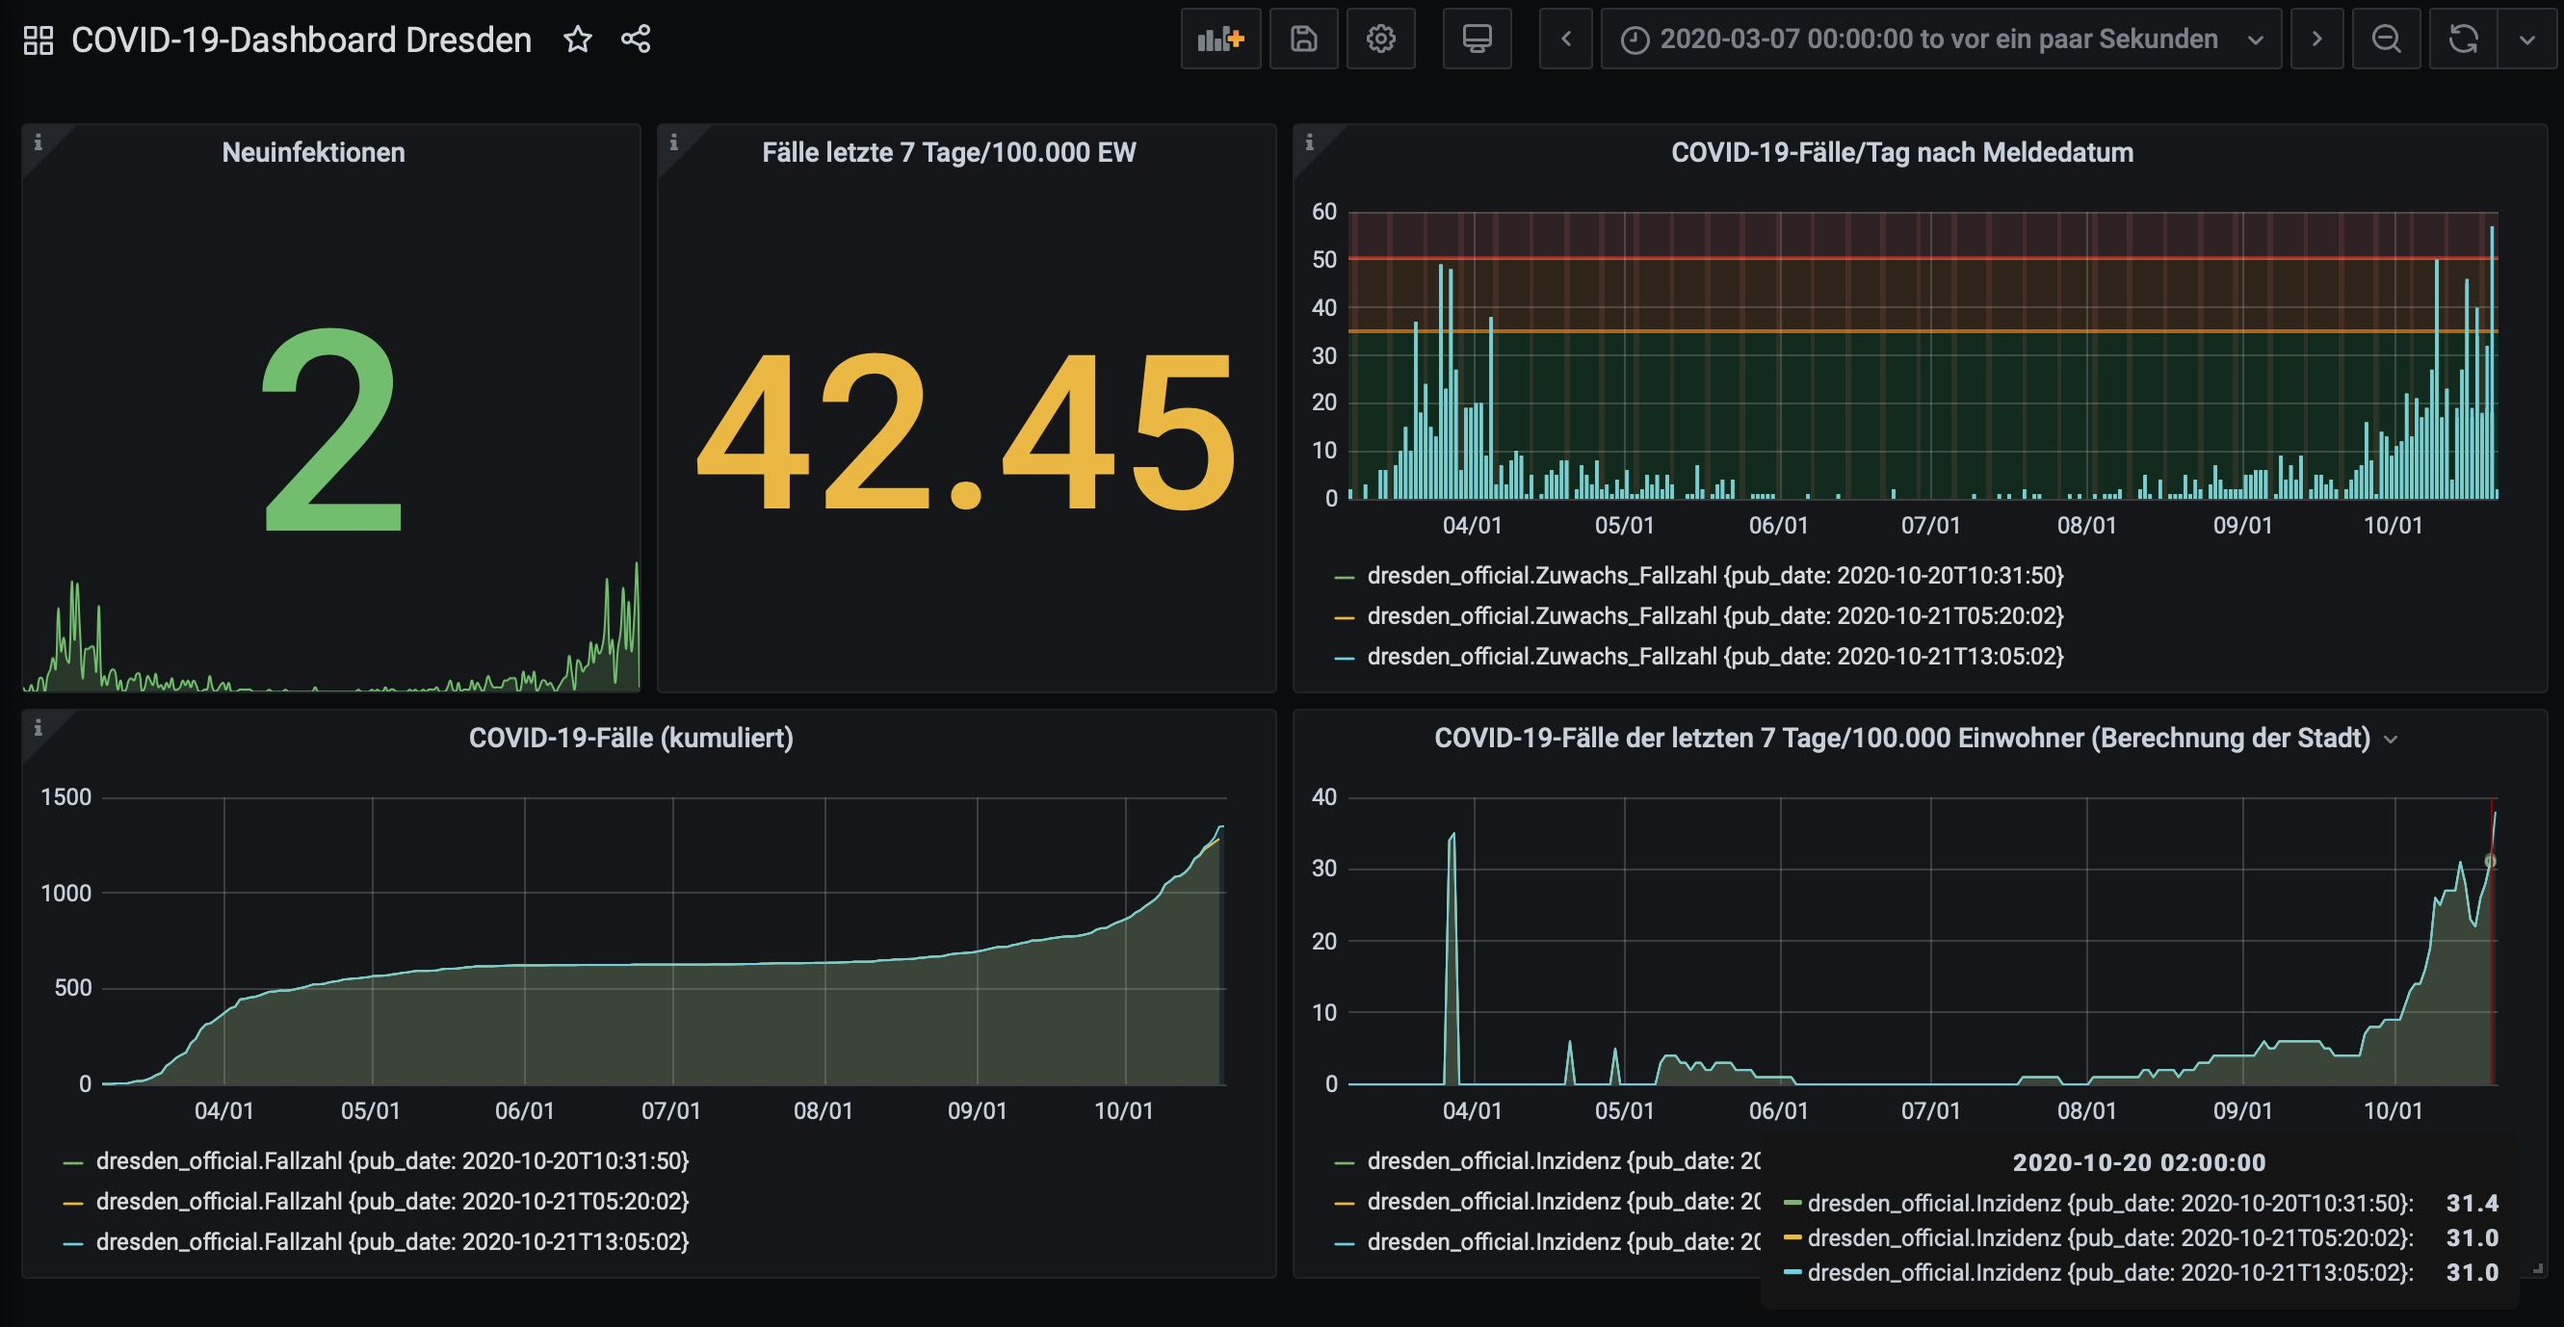
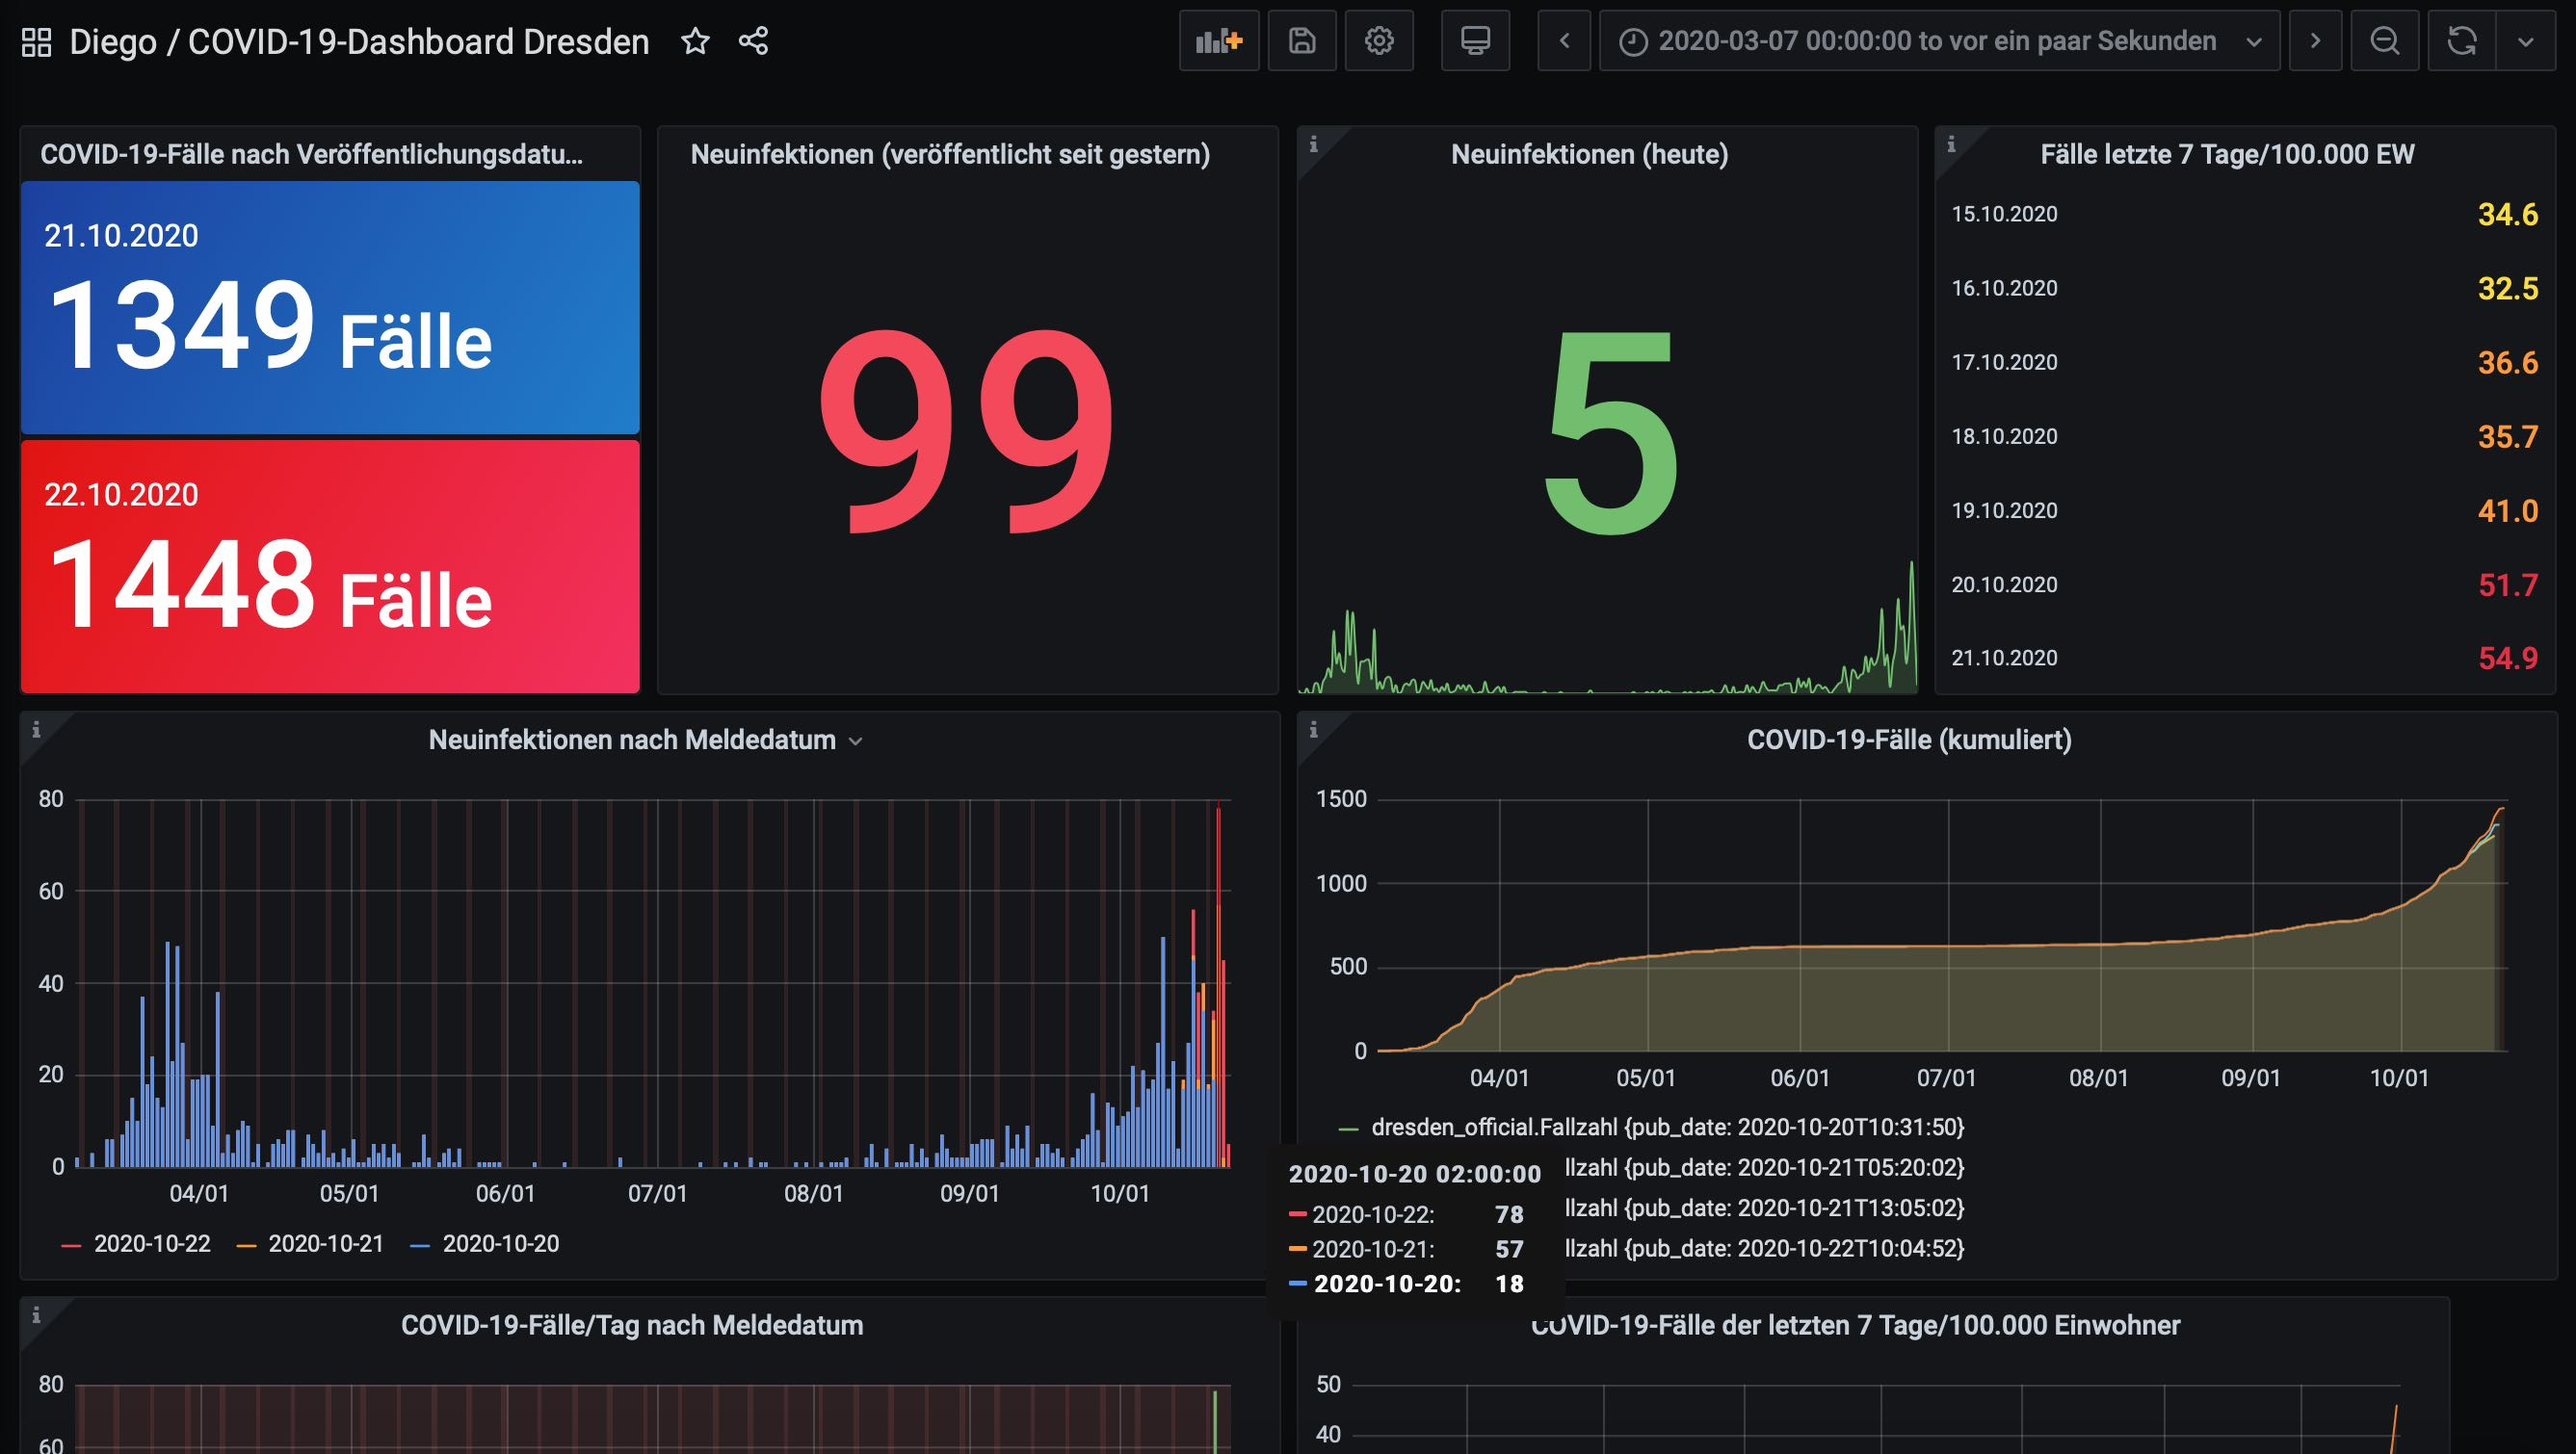
Add 'pub_date' as DB field.

diff --git a/collect.py b/collect.py
@@ -1,6 +1,7 @@
 #!/usr/bin/env python3
 
 # constants
+RELEASE = 'v0.2.0'
 JSON_URL = 'https://services.arcgis.com/ORpvigFPJUhb8RDF/arcgis/rest/services/corona_DD_7_Sicht/FeatureServer/0/query?f=json&where=ObjectId>=0&outFields=*'
 CACHED_JSON_FILENAME = 'cached.json'
 
@@ -15,7 +16,6 @@ import logging
 import logging.handlers
 
 # paths
-import sys
 import pathlib
 
 # JSON
@@ -24,7 +24,7 @@ import json
 
 # date parsing
 import dateutil.parser
-from datetime import datetime
+from datetime import datetime, timezone
 
 # database
 from influxdb import InfluxDBClient
@@ -39,9 +39,9 @@ def setup():
 
     # read command line arguments (https://docs.python.org/3/howto/argparse.html)
     argparser = argparse.ArgumentParser(description='Collect official SARS-CoV-2 infection statistics published by the city of Dresden.')
-    argparser.add_argument('-a', '--archive-json', help='archive JSON file each time new data is found', action='store_true')
+    argparser.add_argument('-a', '--archive-json', help='archive JSON file each time new data is found or force-collected', action='store_true')
     argparser.add_argument('-c', '--force-collect', help='store JSON data, regardless of whether new data points have been found or not', action='store_true')
-    argparser.add_argument('-d', '--date', help='set publishing date manually for the new data set')
+    argparser.add_argument('-d', '--date', help='set publishing date manually for the new data set, e. g. \'2020-10-18T09:52:41Z\', otherwise current time (UTC) is used')
     argparser.add_argument('-f', '--file', help='load JSON data from a local file instead from server', nargs='?', type=argparse.FileType('r'), const='query.json') # default=sys.stdin; https://stackoverflow.com/a/15301183/7192373
     argparser.add_argument('-l', '--log', help='save log in file \'{:s}\''.format(log_filename), action='store_true')
     argparser.add_argument('-v', '--verbose', help='print debug messages', action='store_true')
@@ -95,7 +95,7 @@ def main():
     # load (possibly) new JSON data and write it to InfluxDB
     if args.file:
         data = json.load(args.file)
-        logger.debug('Read JSON data from local file {:s}.'.format(args.file.name))
+        logger.debug('Read JSON data from local file \'{:s}\'.'.format(args.file.name))
     else:
         with urllib.request.urlopen(JSON_URL) as response:
             data = json.load(response)
@@ -112,9 +112,9 @@ def main():
 
         # save query date
         if args.date:
-            data_timestamp = args.date # use user's publishing date if given for the new data set
+            data_pub_date = dateutil.parser.parse(args.date) # use user's publishing date if given for the new data set
         else:
-            data_timestamp = datetime.now().strftime('%Y-%m-%dT%H:%M:%S') # use current time
+            data_pub_date = datetime.now(tz=timezone.utc) # use current time
 
         # cache JSON file
         with open(json_file_path, 'w') as json_file:
@@ -123,7 +123,7 @@ def main():
         if args.archive_json:
             archive_file_dir = pathlib.Path(abs_python_file_dir, 'archive')
             pathlib.Path.mkdir(archive_file_dir, exist_ok=True)
-            archive_file_path = pathlib.Path(archive_file_dir, '{:s}.json'.format(data_timestamp))
+            archive_file_path = pathlib.Path(archive_file_dir, '{:s}.json'.format(data_pub_date.strftime('%Y-%m-%dT%H.%M.%SZ')))
             with open(archive_file_path, 'w') as json_file:
                 json.dump(data, json_file)
 
@@ -133,10 +133,14 @@ def main():
             point = {
                 'measurement'   : 'dresden_official',
                 'tags'          : { # metadata for the data point
-                    'pub_date'  : data_timestamp, # date on which the record was published
+                    'script_version'    : RELEASE, # state version numer of this script
+                    'pub_date'          : data_pub_date.strftime('%Y-%m-%dT%H:%M:%S'), # date on which the record was published
                     },
-                'time'          : datetime.isoformat(dateutil.parser.parse(measurement['attributes'].pop('Datum'), dayfirst=True)), # parse date, switch month and day and generate ISO 8601 formatted string
+                'time'          : int(dateutil.parser.parse(measurement['attributes'].pop('Datum'), dayfirst=True).replace(tzinfo=timezone.utc).timestamp()), # parse date, switch month and day, explicetely set UTC (InfluxDB uses UTC), otherwise local timezone is assumed; 'datetime.isoformat()': generate ISO 8601 formatted string (e. g. '2020-10-22T21:30:13.883657+00:00')
                 'fields'        : { # in principle, a simple "measurement.pop('attributes')" also works, but unfortunately the field datatype is defined by the first point written to a series (in case of this foreign data set, some fields are filled with NoneType); https://github.com/influxdata/influxdb/issues/3460#issuecomment-124747104
+                    # own fields
+                    'pub_date_seconds'              : int(data_pub_date.timestamp()), # add better searchable UNIX timestamp in seconds in addition to the human readable 'pub_date' tag; https://docs.influxdata.com/influxdb/v2.0/reference/glossary/#unix-timestamp; POSIX timestamps in Python: https://stackoverflow.com/a/8778548/7192373
+                    # fields from data source
                     'Anzeige_Indikator'             : str(measurement['attributes']['Anzeige_Indikator']), # value is either None or 'x'
                     'BelegteBetten'                 : int(measurement['attributes']['BelegteBetten'] or 0), # replace NoneType with 0
                     'Datum_neu'                     : int(measurement['attributes']['Datum_neu'] or 0),
@@ -155,7 +159,7 @@ def main():
             time_series.append(point)
 
         # write data to database
-        db_client.write_points(time_series)
+        db_client.write_points(time_series, time_precision='s')
         logger.info('Time series successfully written to database.')
 
 if __name__ == '__main__':

diff --git a/README.md b/README.md
@@ -2,7 +2,7 @@
 
 [![License](https://img.shields.io/github/license/jdieg0/coronavirus-dresden)](https://github.com/jdieg0/coronavirus-dresden/blob/main/LICENSE)
 
-<a href="https://raw.githubusercontent.com/jdieg0/coronavirus-dresden/main/assets/images/grafana_covid-19-dashboard-dresden_screenshot.jpg"><img align="right" width="50%" src="assets/images/grafana_covid-19-dashboard-dresden_screenshot.jpg" title="Visualization with Grafana" alt="Screenshot of a Grafana dashboard that uses the data"></a>
+<a href="https://raw.githubusercontent.com/jdieg0/coronavirus-dresden/main/assets/images/grafana_covid-19-dashboard-dresden_screenshot.jpg"><img align="right" width="60%" src="assets/images/grafana_covid-19-dashboard-dresden_screenshot.jpg" title="Visualization with Grafana" alt="Screenshot of a Grafana dashboard that uses the data"></a>
 
 This script collects official infection statistics published by the city of Dresden and saves them to [InfluxDB](https://www.influxdata.com/products/influxdb-overview/). From there the data can be processed and visualised using SQL and, for instance, [Grafana](https://grafana.com/docs/grafana/latest/datasources/influxdb/).
 
